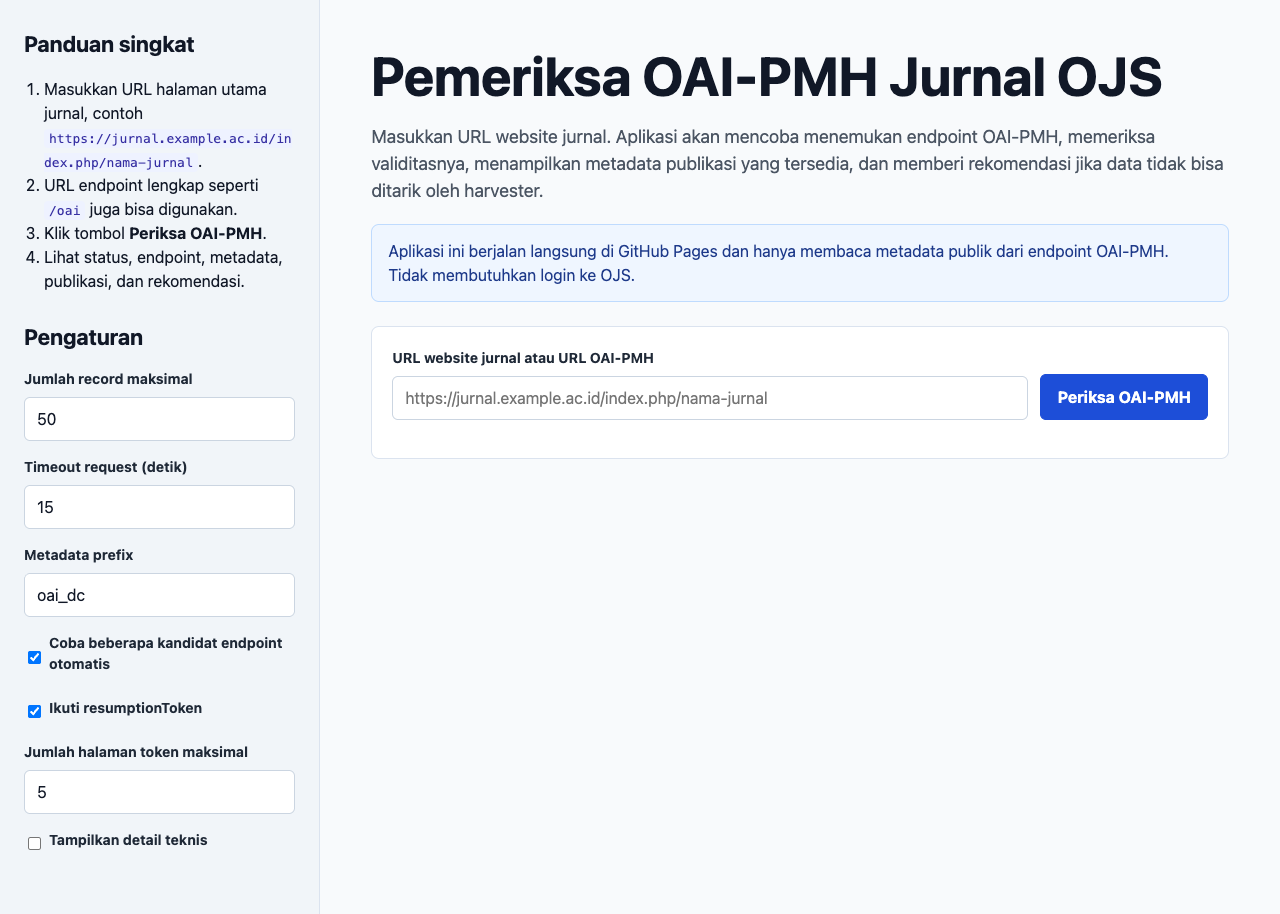
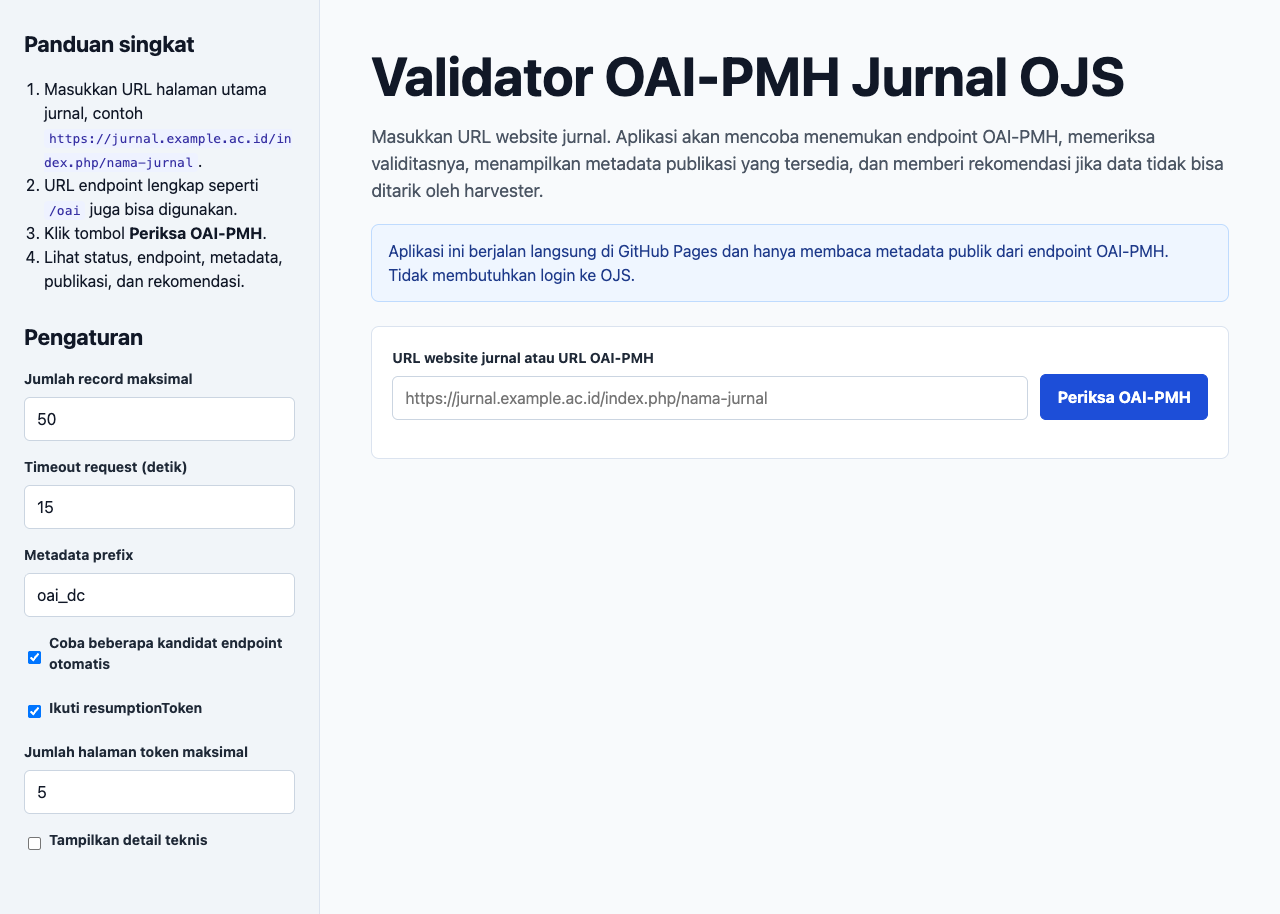
Rename app title to Validator OAI-PMH

Changed region(s): [[0.2812, 0.0613, 0.9062, 0.1225]]

diff --git a/docs/index.html b/docs/index.html
@@ -3,7 +3,7 @@
   <head>
     <meta charset="utf-8" />
     <meta name="viewport" content="width=device-width, initial-scale=1" />
-    <title>Pemeriksa OAI-PMH Jurnal OJS</title>
+    <title>Validator OAI-PMH Jurnal OJS</title>
     <link rel="icon" href="data:," />
     <meta
       name="description"
@@ -374,7 +374,7 @@
       </aside>
 
       <main>
-        <h1>Pemeriksa OAI-PMH Jurnal OJS</h1>
+        <h1>Validator OAI-PMH Jurnal OJS</h1>
         <p class="subtitle">
           Masukkan URL website jurnal. Aplikasi akan mencoba menemukan endpoint OAI-PMH,
           memeriksa validitasnya, menampilkan metadata publikasi yang tersedia, dan memberi

diff --git a/app.py b/app.py
@@ -17,7 +17,7 @@ from src.models import AppSettings, AuditResult
 
 
 st.set_page_config(
-    page_title="Pemeriksa OAI-PMH Jurnal OJS",
+    page_title="Validator OAI-PMH Jurnal OJS",
     layout="wide",
 )
 
@@ -40,7 +40,7 @@ def main() -> None:
 
 
 def _render_header() -> None:
-    st.title("Pemeriksa OAI-PMH Jurnal OJS")
+    st.title("Validator OAI-PMH Jurnal OJS")
     st.write(
         "Masukkan URL website jurnal. Aplikasi akan mencoba menemukan endpoint OAI-PMH, "
         "memeriksa validitasnya, menampilkan metadata publikasi yang tersedia, dan memberi "

diff --git a/README.md b/README.md
@@ -20,7 +20,7 @@ URL tersebut menjalankan versi web publik yang bisa dipakai langsung dari browse
 
 ## Screenshot
 
-![Screenshot aplikasi Pemeriksa OAI-PMH Jurnal OJS](docs/screenshot.png)
+![Screenshot aplikasi Validator OAI-PMH Jurnal OJS](docs/screenshot.png)
 
 Screenshot ini diambil dari aplikasi Streamlit yang dijalankan lokal.
 
